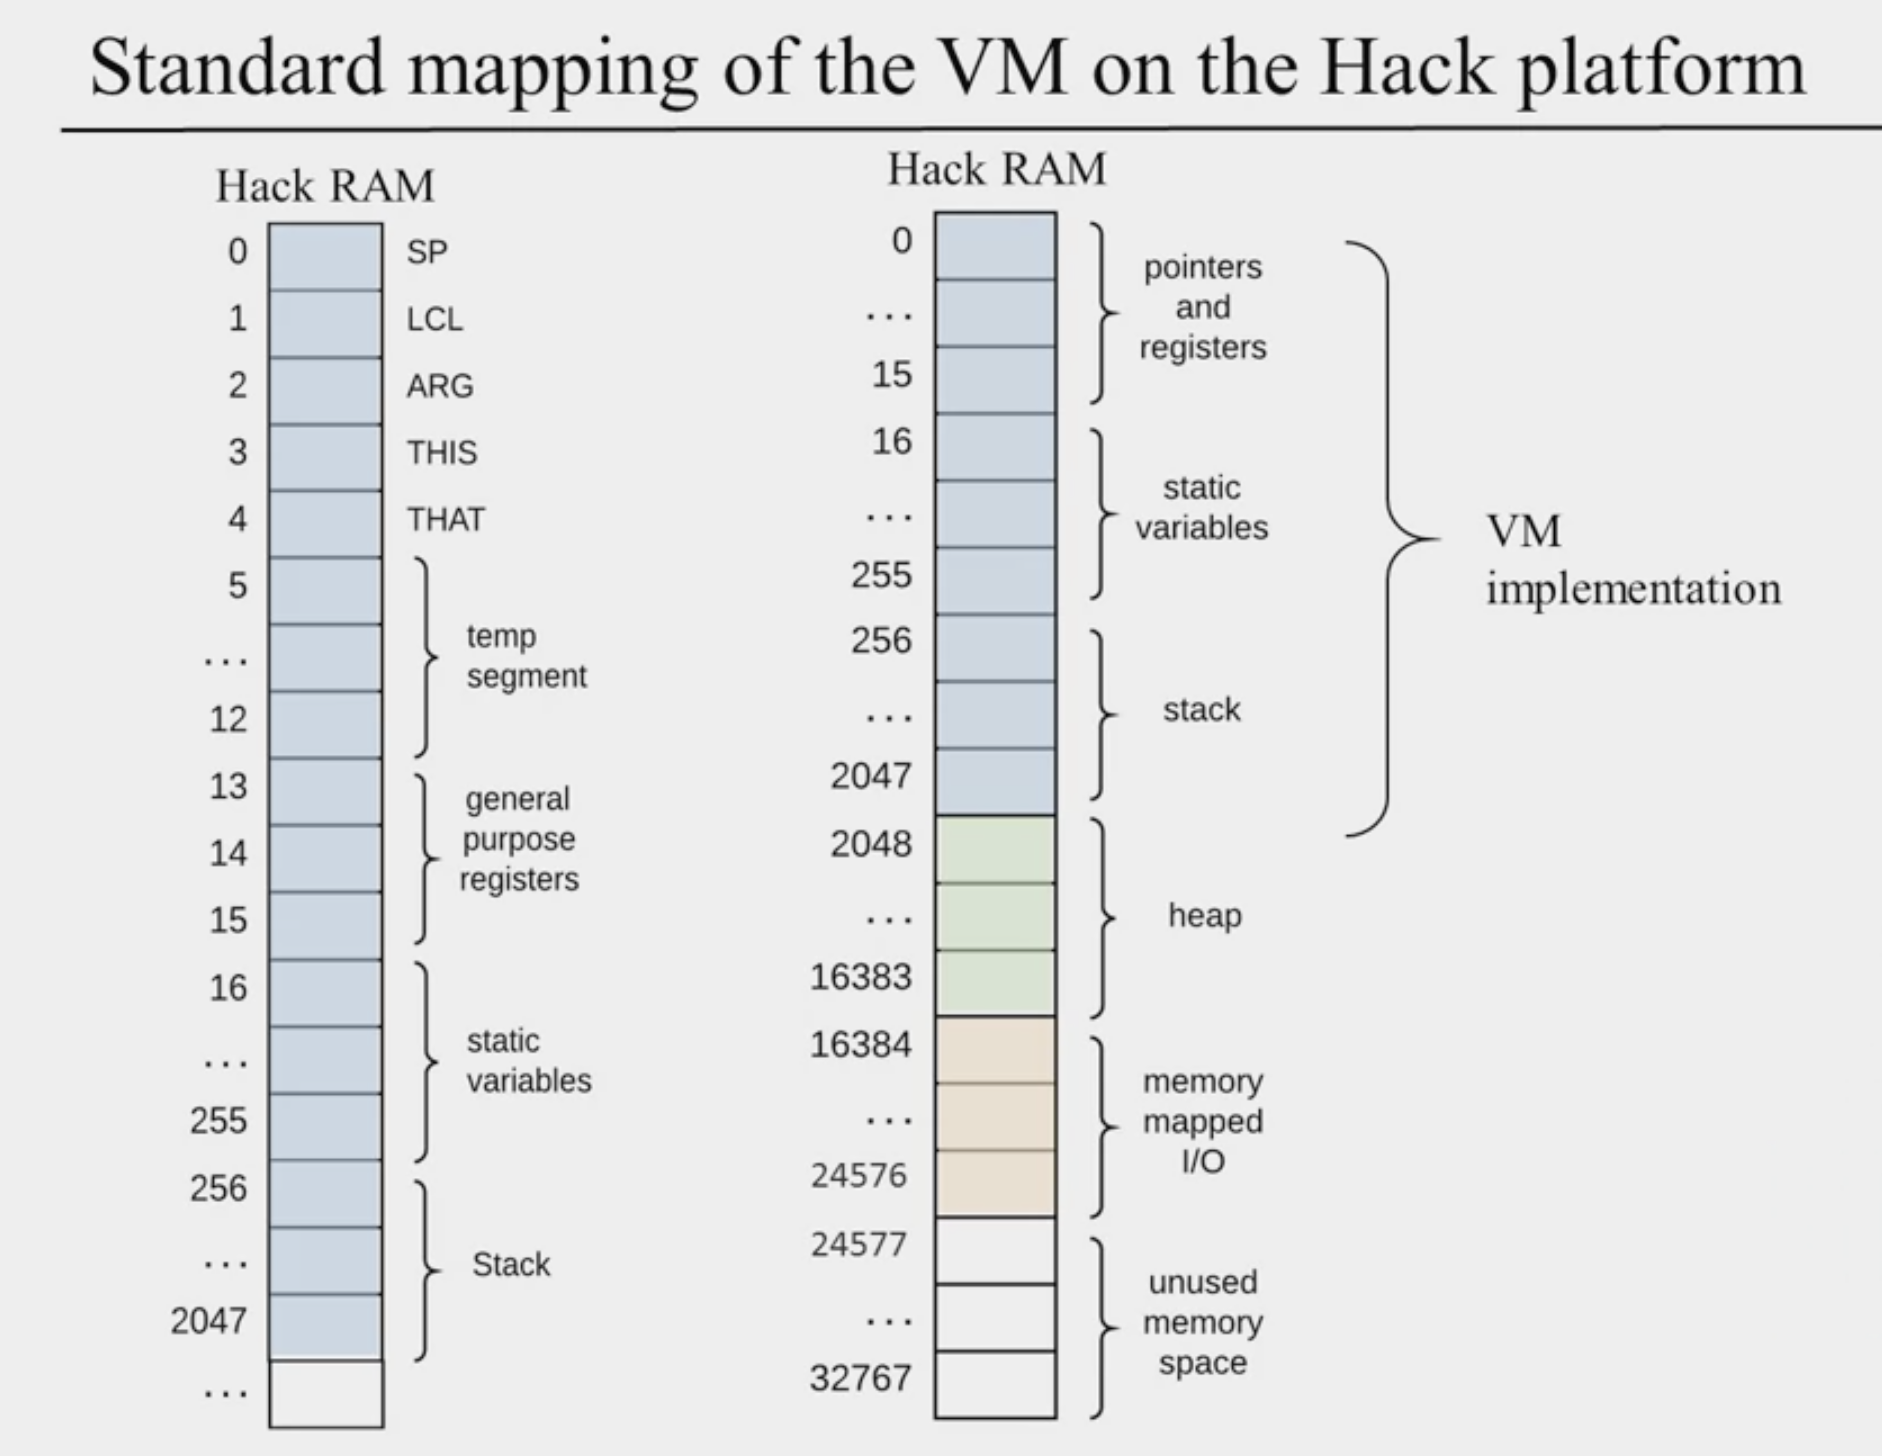
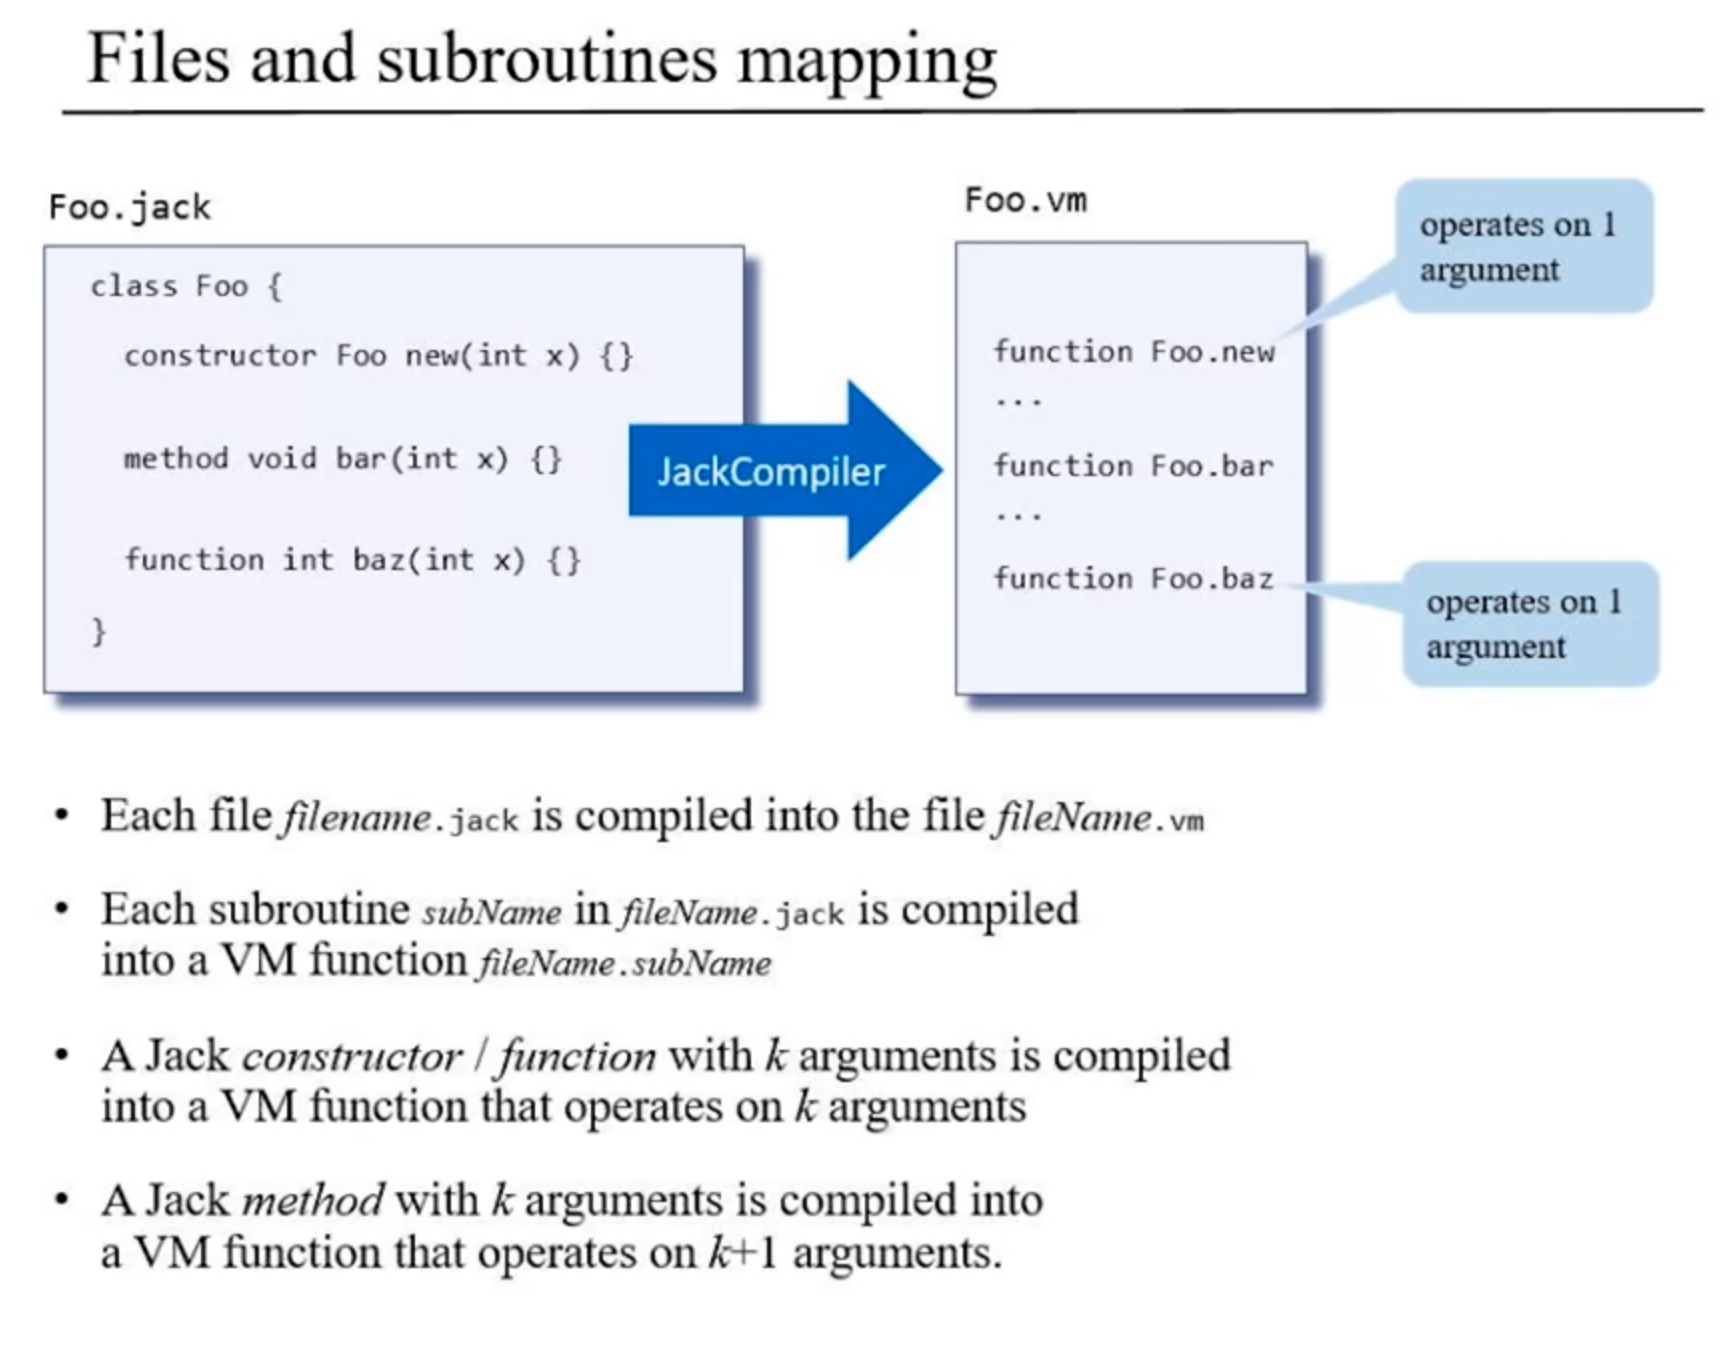
doc: update wiki

Changed region(s): [[0.0312, 0.0, 1.0, 0.9963]]

diff --git a/vimwiki/CodeGeneration.md b/vimwiki/CodeGeneration.md
@@ -1,6 +1,98 @@
-# Code Generation
 
-## Handling Variables
+<!-- vim-markdown-toc GFM -->
+
+* [Code Generation](#code-generation)
+  * [Usage](#usage)
+  * [Implementation](#implementation)
+    * [Implement `SymbolTable` Module](#implement-symboltable-module)
+    * [Implement `VMWriter` Module](#implement-vmwriter-module)
+    * [Implement `CompilationEngine` Module](#implement-compilationengine-module)
+  * [Details](#details)
+    * [Handling Variables](#handling-variables)
+      * [Variable properties(in Jack):](#variable-propertiesin-jack)
+      * [Symbol tables](#symbol-tables)
+    * [Handling Expressions](#handling-expressions)
+    * [Handling Flow of Control](#handling-flow-of-control)
+    * [Handling objects:Low-level Aspects](#handling-objectslow-level-aspects)
+      * [local,argument](#localargument)
+      * [this,that](#thisthat)
+    * [Handling objects:Construction](#handling-objectsconstruction)
+    * [Handling objects:Manipulation](#handling-objectsmanipulation)
+    * [Handling arrays](#handling-arrays)
+      * [Array construction](#array-construction)
+      * [Array manipulation](#array-manipulation)
+    * [Standard Mapping Over the Virtual Machine](#standard-mapping-over-the-virtual-machine)
+
+<!-- vim-markdown-toc -->
+## Code Generation
+![roadMap](image/compilerRoadMap.png)
+
+### Usage
+``` shell
+$ JackCompiler input
+```
+
+Input:
+* `filename.jack`: name of a single source file, or
+* `directoryName`: name of a directory containing one or more .jack source files
+
+Output:
+* if the input is a single file: `fileName.vm`
+* if the input is a directory: one `.vm` file for every .jack file, stored in
+  the same directory.
+
+Implementation notes:
+* For each source `.jack` file, the compiler creates `JackTokenizer` and an
+output `.vm` file
+* Next, the compiler uses the `SymbolTable`, `CompilationEngine`, and
+`VMWriter` modules to write the VM code into the output `.vm` file
+
+### Implementation
+The overall compiler can thus be constructed using five modules:
+* `JackCompiler` :top-level driver that sets up and invokes the other modules;
+* `JackTokenizer` :tokenizer;
+* `SymbolTable` :symbol table;
+* `VMWriter` :output module for generating VM code;
+* `CompilationEngine` :recursive top-down compilation engine.
+
+#### Implement `SymbolTable` Module
+The following kinds of identifiers may appear in the symbol table:
+- `Static`: Scope: class.
+- `Field`: Scope: class.
+- `Argument`: Scope: subroutine (method/function/constructor).
+- `Var`: Scope: subroutine (method/function/constructor).
+
+When compiling error-free Jack code, any identifier not found in the symbol table
+may be assumed to be a subroutine name or a class name. Since the Jack language
+syntax rules suffice for distinguishing between these two possibilities, and since no
+‘‘linking’’ needs to be done by the compiler, there is no need to keep these identifiers
+in the symbol table.
+
+![symboltable](image/implement-symboltable.png)
+![symboltable_api](image/implement-symboltable-api.png)
+
+#### Implement `VMWriter` Module
+`VMWriter`: Emits VM commands into a file, using the VM command syntax.
+![VmWriter](image/implement-VMWriter.png)
+
+#### Implement `CompilationEngine` Module
+- Gets its input from a `JackTokenizer` and writes its output using the `VMWriter`.
+- Organized as a series of `compilexxx` routines, xxx being a syntactic element
+in the Jack language.
+![contract](image/contract.png)
+
+
+
+
+
+
+
+
+
+
+### Details
+
+#### Handling Variables
 
 * class-level variable
   * field
@@ -9,4 +101,77 @@
   * argument
   * local
 
-![What](./image/handlingVariable1.png "What we must know")
+![What we must know](./image/handlingVariable1.png "What we must know")
+
+##### Variable properties(in Jack):
+
+* name(identifier)
+* type(int, char, boolean, class name)
+* kind(field, static, local, argument)
+* scope(class level, subroutine level)
+
+Needed for code generation.
+
+Can be managed efficiently using a **symbol table**.
+
+##### Symbol tables
+![symbolTables](image/symbolTables.png "symbol table")
+![symbolTables](image/symbolTables2.png)
+![nestedScope](image/nestedScoping.png)
+
+#### Handling Expressions
+![postfix](image/parseTree.png)
+![expression](image/expression.png)
+
+* [Depth first search](https://en.wikipedia.org/wiki/Depth-first_search)
+
+![expression2](image/expression2.png "one-stage approach")
+![expression3](image/expression3.png)
+![expression4](image/expression4.png)
+
+#### Handling Flow of Control
+The challenge
+* while
+* if
+
+VM code, using:
+* goto
+* if-goto
+* label
+
+![if](image/if.png)
+![while](image/while.png)
+
+#### Handling objects:Low-level Aspects
+##### local,argument
+
+##### this,that
+* represent *object* and *array* data 
+* located on the *heap*
+* Object data is accessed via the this segment
+* Array data is accessed via that segment
+* Before we use these segments, we must first anchor them using pointer
+
+#### Handling objects:Construction
+ 
+#### Handling objects:Manipulation
+
+#### Handling arrays
+##### Array construction
+![array construction](image/array1.png)
+##### Array manipulation
+![this and that](image/array2.png)
+![this and that](image/array3.png)
+![Array access](image/array4.png)
+![Array access](image/array5.png)
+![Array access](image/array6.png)
+
+#### Standard Mapping Over the Virtual Machine
+![Files and subroutines](image/mapping.png)
+![Variables](image/variableMapping.png)
+![Arrays](image/arraysMapping.png)
+![subroutines](image/subroutine.png)
+![subroutineCall](image/subroutineCall.png)
+![constants](image/constants.png)
+![OS](image/OS.png)
+![OS2](image/OS2.png)

diff --git a/vimwiki/vim-environment.md b/vimwiki/vim-environment.md
@@ -1,8 +1,8 @@
 [Configure Coc.Nvim for C/C++ Development](https://ianding.io/2019/07/29/configure-coc-nvim-for-c-c++-development/)
 ========================================
-
-Setting up CCLS
----------------
+CCLS
+----
+### 1. Setting Up Ccls
 ``` shell
 brew update
 brew install ccls
@@ -37,9 +37,8 @@ In Vim, run `:CocConfig`, or edit `~/.vim/coc-settings.json`
 }
 ```
 
-Setting up your C/C++ Project
------------------------------
-### Generate `.CCLS`
+### 2. Setting Up Your C/C++ Project
+#### Generate `.CCLS`
 
 Run `g++ -E -x c++ - -v < /dev/null` in your terminal and you’ll see a list of
 include paths that the compiler searches. They are between `#include <...>
@@ -68,5 +67,35 @@ After manually adding these system header paths, the `.ccls` file might look lik
 -fPIC
 ```
 
-### Putting .Ccls in the Project Root.
+#### 3. Putting .Ccls in the Project Root.
 
+[coc-cland](https://github.com/clangd/coc-clangd)
+---------
+I choose `coc-clangd` because its easy to config.
+
+### 1. Install coc-clanged
+In vim, run `:CocInstall coc-clangd`
+### 2. Generate `compile_flags.txt`
+Run `pkg-config --libs --cflags fmt` to check the path.
+```
+-I/home/linuxbrew/.linuxbrew/Cellar/fmt/10.2.1/include
+```
+
+Package manager: `Homebrew` or `linuxbrew`
+--------------------------------------
+Add these to `.bashrc`, so that your compiler can find the correct library
+installed by `Homebrew`.
+```
+export CPLUS_INCLUDE_PATH="/home/linuxbrew/.linuxbrew/include"
+export C_INCLUDE_PATH="/home/linuxbrew/.linuxbrew/include"
+```
+
+
+Issues
+------
+1. I need to manually install `fmt` because of version compatibility issues.
+
+
+Reference
+----------
+[G++ Cheatsheet](https://bytes.usc.edu/cs104/wiki/gcc)

diff --git a/vimwiki/JackAnalyzer.md b/vimwiki/JackAnalyzer.md
@@ -26,9 +26,9 @@ Output:
   * complete version (handles everything)
 
 ### JackAnalyzer
-Top -level driver that sets up and invokes the other modules.
+Top-level driver that sets up and invokes the other modules.
 
-#### JackTokenizer
+### JackTokenizer
 ![jackTokenizer](image/tokenizer.png)
 ![tokenizerApi0](image/tokenizerApi0.png)
 ![tokenizerApi1](image/tokenizerApi1.png)
